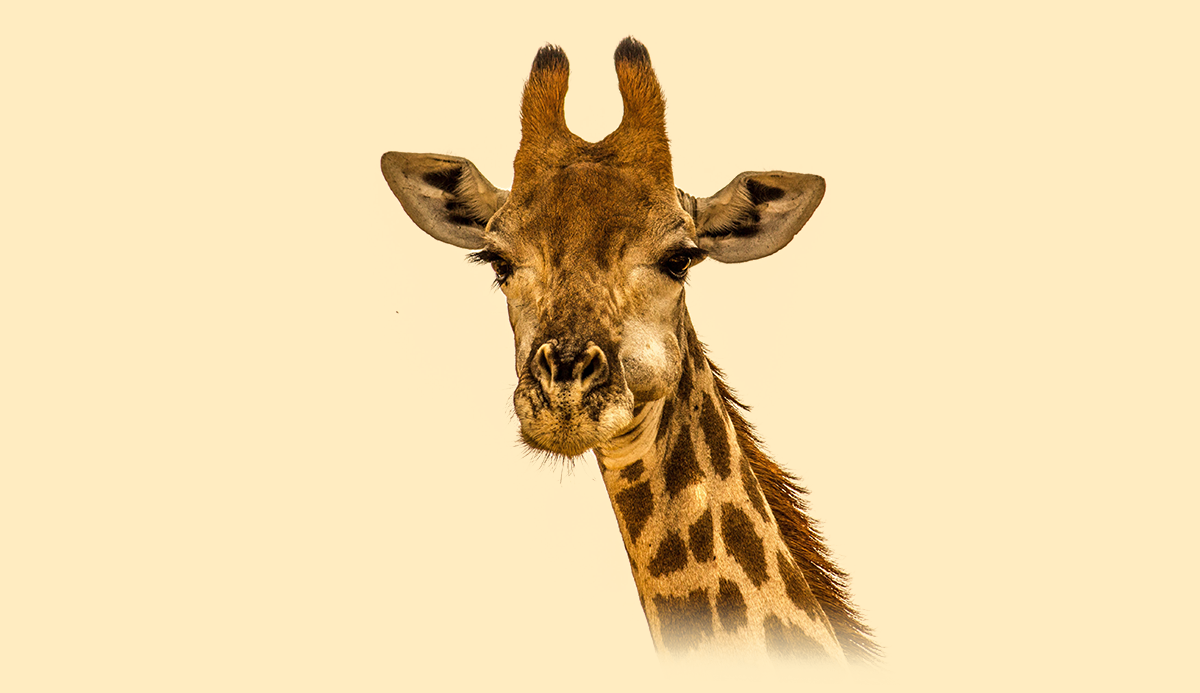
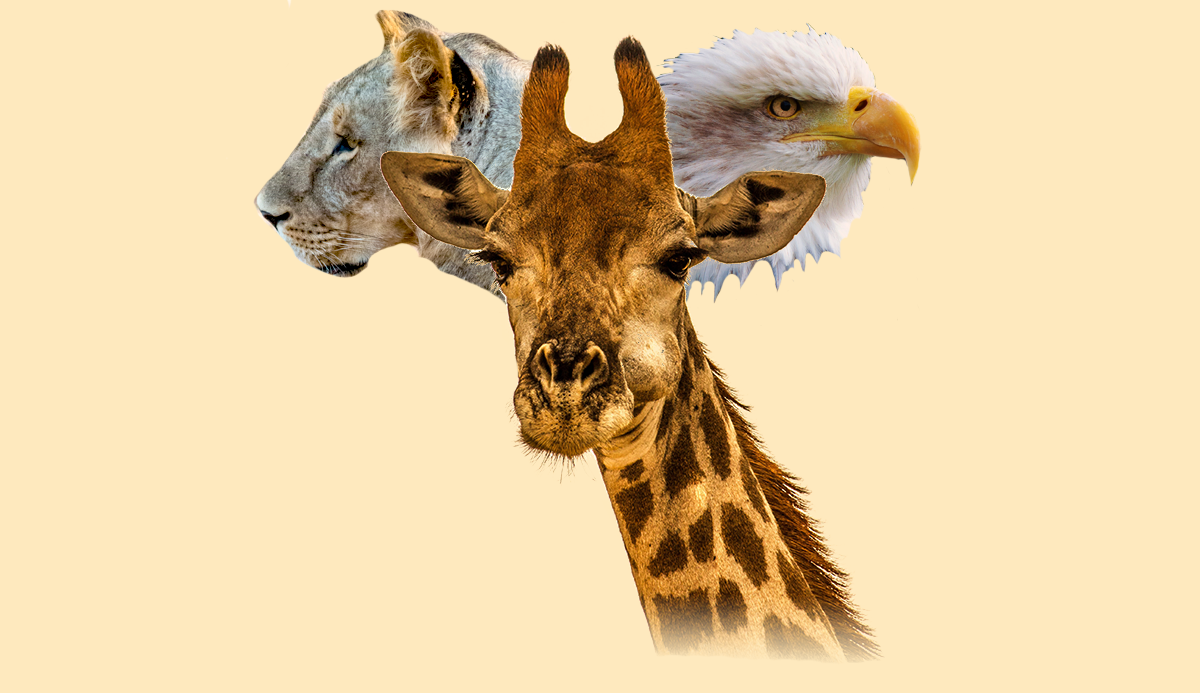
added updated main image, cleaned up code

Changed region(s): [[0.5242, 0.0303, 0.7708, 0.4242], [0.2158, 0.0, 0.4625, 0.4242]]

diff --git a/scripts.js b/scripts.js
@@ -1,7 +1,7 @@
 var checkForSaved = () => {
   /*
-  Check for existing saved user name, deliver past results if available,
-  hide name input field, show new user link.
+  Check for existing saved user name, if present hide name input field,
+  get and deliver past results, show link to reset user.
   */
   if (localStorage.getItem("savedName")) {
     document.getElementById("name-field").style.visibility= 'hidden';
@@ -10,7 +10,7 @@ var checkForSaved = () => {
     document.getElementById('intro-text').innerHTML = 'Welcome back '
     + savedName + '! You previously took the Spirit Animal test and were matched with '
     + savedAnimal + '. How about taking the test again? <br> <p id="newUser">If you want to start over as a new user, click <a href="javascript:clearUser()">here</a>.</p>';
-    document.getElementById("inputName").value = savedName;
+    document.getElementById("inputName").value = savedName; //inserts saved user name to hidden name field so no error on submit
   }
 }
 

diff --git a/contact.html b/contact.html
@@ -7,7 +7,6 @@
     rel="stylesheet">
 </head>
 <body>
-
   <div class="header">
     <ul id="menu-items">
       <li><a href='index.html'>Home</a></li>
@@ -16,20 +15,14 @@
       <li><a href='contact.html'>Contact</a></li>
     </ul>
   </div>
-
   <div class="content">
-
     <h1 class="page-title">Contact</h1>
-
-    <p>Contact Hans via <a href="mailto:piratehans@gmail.com">Email</a>.</p> 
-    <p>Or you can view his <a href="https://github.com/PDXCrow/">GitHub Repos</a>, which include
-    the files for this site.</p>
+    <p>You can contact me here via <a href="mailto:piratehans@gmail.com">Email</a>.</p>
+    <br>
+    <p>Or you can view the files from this site and my other work at my <a href="https://github.com/PDXCrow/">GitHub Repos</a>.</p>
     <br><br>
   </div>
-
-
-<br>
-
+  <br>
   <p class="footer">Copyright &copy; 2018 Hans Janowitz</p>
 </body>
 <script src="scripts.js"></script>

diff --git a/theanimals.html b/theanimals.html
@@ -6,8 +6,7 @@
     <link href="https://fonts.googleapis.com/css?family=Assistant|Bad+Script"
     rel="stylesheet">
 </head>
-<body onload="createAnimals()">
-
+<body onload="createAnimals()"
   <div class="header">
     <ul id="menu-items">
       <li><a href='index.html'>Home</a></li>
@@ -16,22 +15,15 @@
       <li><a href='contact.html'>Contact</a></li>
     </ul>
   </div>
-
   <div class="content">
-
     <h1 class="page-title">The Animals</h1>
     <p> Here are all the possible animal matches with some details about them.</p>
     <br><br>
 
     <div id="animalList">
     </div>
-
-
   </div>
-
-
-<br>
-
+  <br>
   <p class="footer">Copyright &copy; 2018 Hans Janowitz</p>
 </body>
 <script src="scripts.js"></script>

diff --git a/about.html b/about.html
@@ -7,7 +7,6 @@
     rel="stylesheet">
 </head>
 <body>
-
   <div class="header">
     <ul id="menu-items">
       <li><a href='index.html'>Home</a></li>
@@ -16,19 +15,14 @@
       <li><a href='contact.html'>Contact</a></li>
     </ul>
   </div>
-
   <div class="content">
-
     <h1 class="page-title">About</h1>
     <img id="author-photo" src="images/hans.jpg">
     <p> This site was coded by Hans Janowitz, an aspiring developer, using HTML,
     CSS and vanilla JavaScript.</p>
     <br><br>
   </div>
-
-
-<br>
-
+  <br>
   <p class="footer">Copyright &copy; 2018 Hans Janowitz</p>
 </body>
 <script src="scripts.js"></script>

diff --git a/styles.css b/styles.css
@@ -34,8 +34,6 @@ input {
   width: 75%;
 }
 
-
-
 .page-title {
   font-family: 'Bad Script', cursive;
   letter-spacing: 3px;
